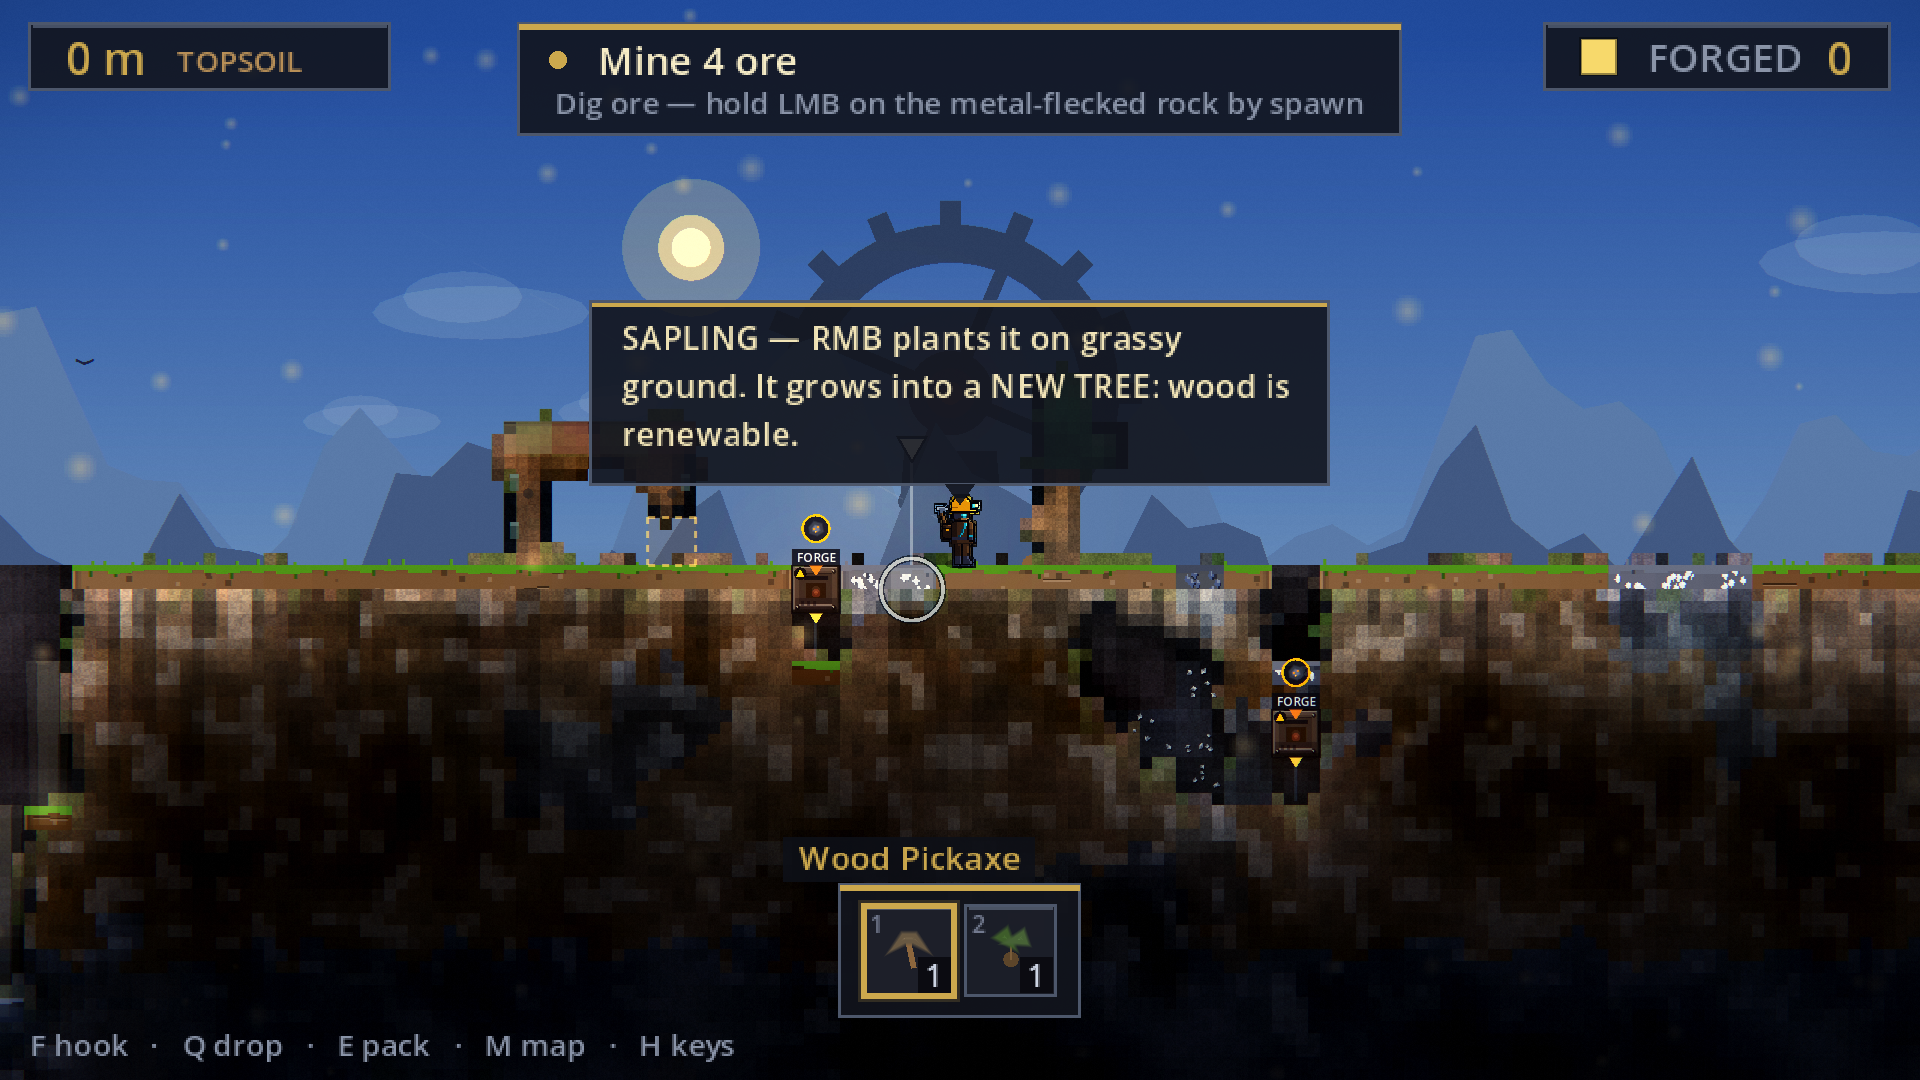
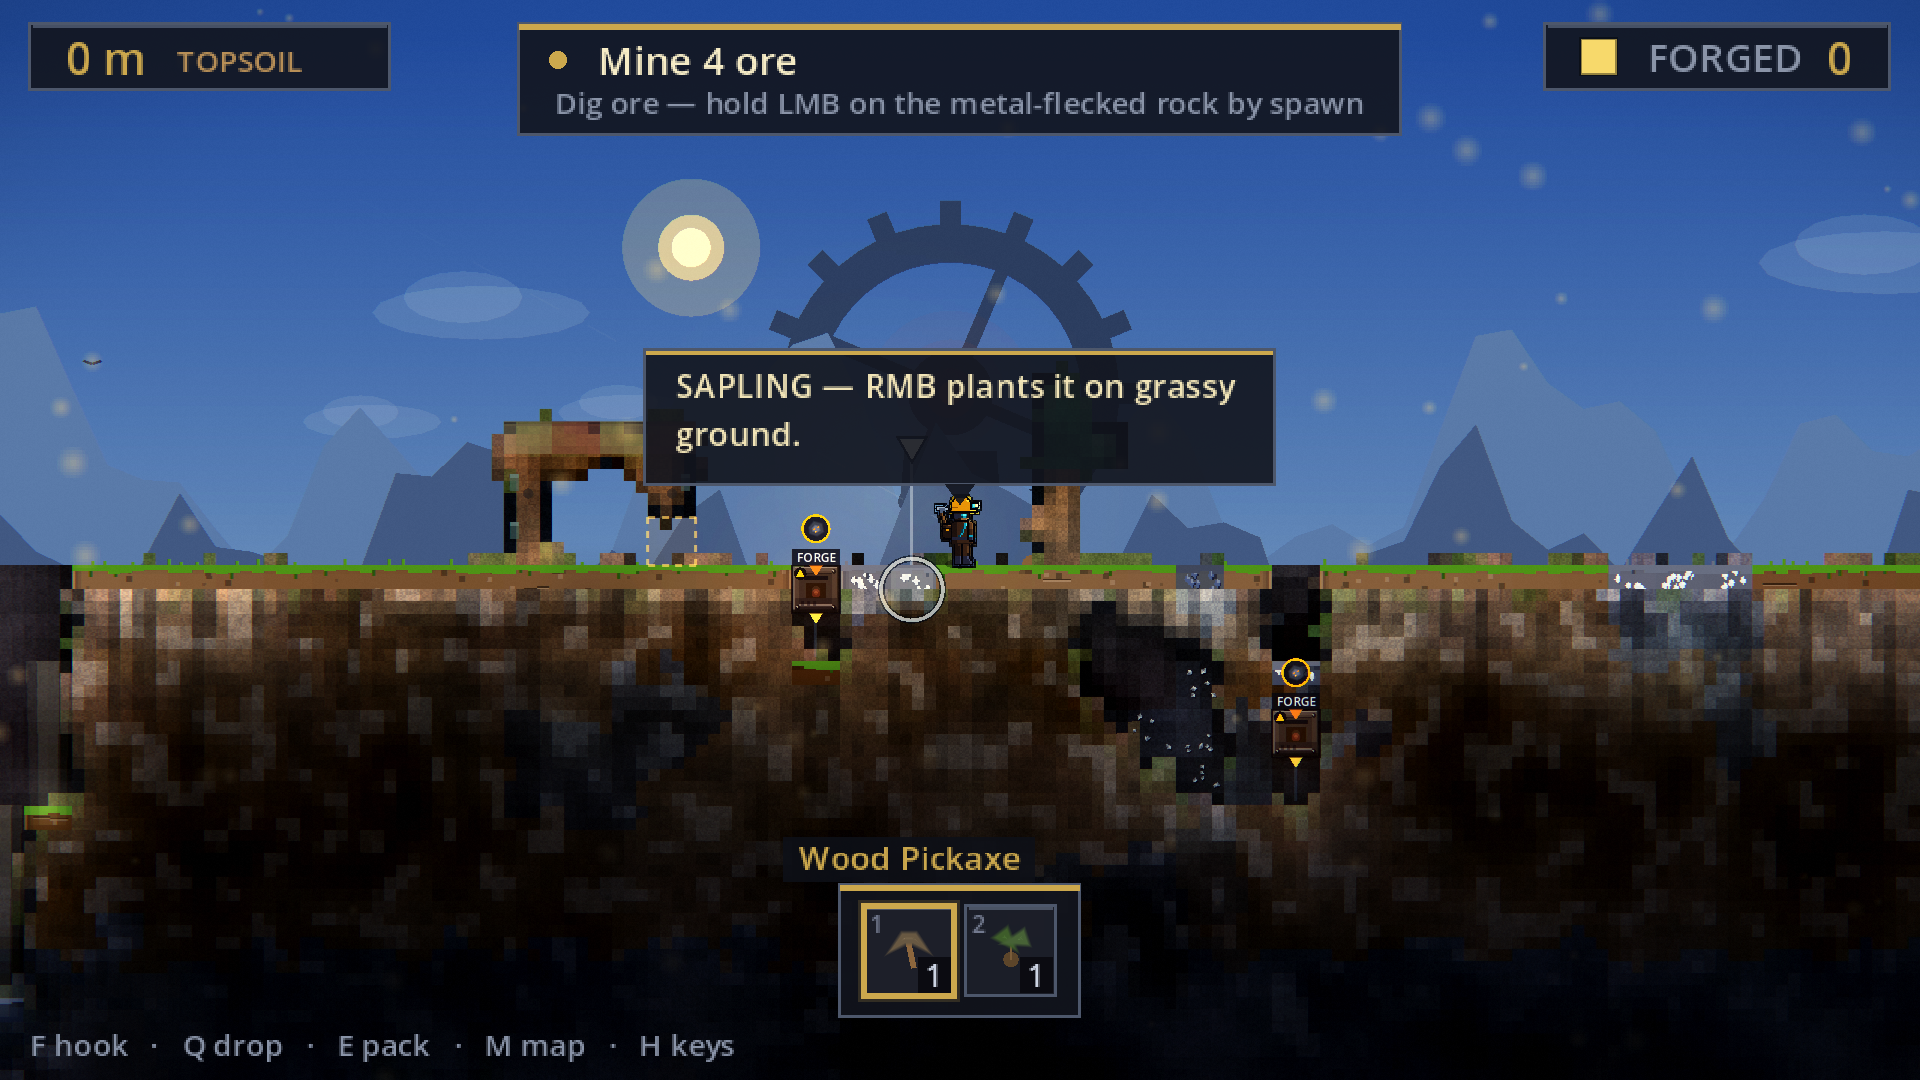
P1 strike 2: one action, one consequence, and a ceiling measured rather than chosen
UI-05. The sapling lesson's second sentence — "It grows into a NEW TREE: wood is
renewable" — is a SECOND CONCEPT competing with the one input instruction the
bubble exists to give, and it is the ticket's own example. It is not deleted, it
is MOVED: a new `planted` moment fires on the first sapling that actually roots,
so the claim arrives attached to the thing it is a claim about. A player who has
just watched one go into the ground is being told what they now own, not what they
might one day do. rich_ore's Blast Furnace research path moved to the BENCH by the
same rule — a research path is a plan, not a consequence.

UI-06. hint_box() extracted from _draw_hint_bubble so the harness can size every
lesson WITHOUT REIMPLEMENTING THE LAYOUT; a second copy of that arithmetic would be
a gauge that agrees with itself and not with the screen.

Then the ceiling, from measurement across all nineteen lessons:

  before  tallest 77px (pump, chain, wrapped — four lines)
  after   tallest 61px (three lines), largest 6.62% of canvas (generator)

pump lost "a shorter line swings faster" (the mechanism, a third concept sitting
between the two halves of the input it explains). chain lost "you never have to
land" (a slogan, arriving BEFORE the instruction that earns it). wrapped lost its
second control. The ceiling is 61 — a fourth line is 77, so it fails the moment any
lesson grows one. IT MOVED BECAUSE THE SUBJECT CHANGED, which is the only
direction a threshold is ever allowed to move.
[…]

diff --git a/docs/media/baseline/README.md b/docs/media/baseline/README.md
@@ -190,8 +190,19 @@ frame is its strongest evidence.
 **Outside the lamp, rock and void are the same near-black.** In `delve` the left third of the frame cannot
 be parsed into solid and empty by eye. That is `T3.1` **6a**, and it is `P2`'s subject.
 
-> **STATUS, and it moved while this page was being written.** `c1` has since landed a treatment
+> **STATUS, and it moved while this page was being written.** `c1` has a treatment
 > (`scenes/rock_tooth.gdshader`) taking VALUE 52% → 67% and GRAIN 61% → 79% against a 75% floor, with the
-> rock/air value relation no longer inverted, `check_opening` 5–6 dead tiles of 32 → **0 of 32**, and no
-> threshold moved. **These frames are therefore a genuine BEFORE.** They should not be regenerated; the
-> after belongs beside them under a different name.
+> rock/air value relation no longer inverted. **These frames are therefore a genuine BEFORE.** They should
+> not be regenerated; the after belongs beside them under a different name.
+
+> **AND ONE NUMBER ON THIS PAGE HAS TO BE READ WITH ITS RULER NAMED.** `check_opening` measured
+> **2/32 dead, PASS**, four times on `origin/main` at `f225eaa` — the commit these frames were taken at.
+> That is **not** evidence the opening is fine. Main's copy of the layer locates the horizon with a broken
+> projection (y=589 instead of y=613) and so **judges a band ~24px too high, missing the deadest subsoil
+> row entirely**, and `dead_space` scores a tile on **horizontal** neighbour differences alone, so ground
+> that is banded horizontally and flat vertically reads as alive. The corrected instrument scores the same
+> renderer at **6/32, FAIL, three times with zero variance.** Both repairs are unmerged.
+>
+> **These PNGs are unaffected — they are pixels, and the pixels are what they are.** What is affected is
+> any dead-space FIGURE quoted from this commit: it is a **lower bound**, and this page does not use it as
+> a baseline.
